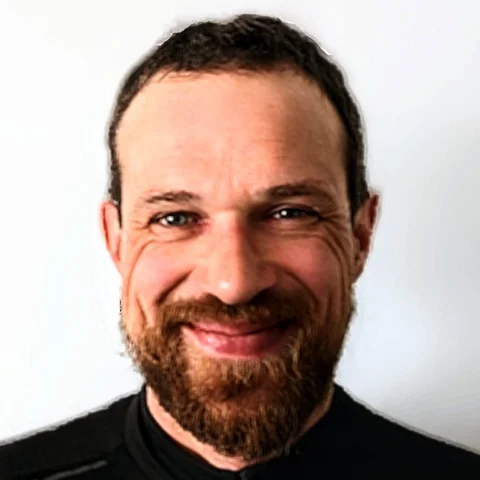
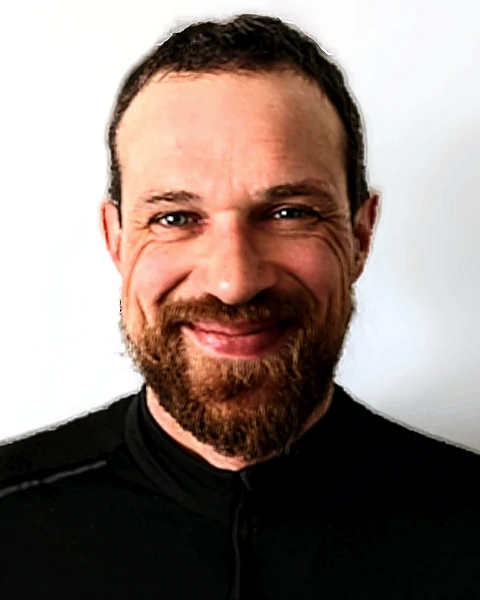
Portrait: smaller, sharper re-export from original (4:5)

diff --git a/index_v5.html b/index_v5.html
@@ -1,0 +1,216 @@
+<!doctype html>
+<html lang="nb">
+<head>
+<meta charset="utf-8">
+<meta name="viewport" content="width=device-width, initial-scale=1">
+<title>Mantas Pagalys · Hage, småbygg og båt · Oslo, Sandvika, Bærum</title>
+<meta name="robots" content="noindex">
+<link rel="preconnect" href="https://fonts.googleapis.com"><link rel="preconnect" href="https://fonts.gstatic.com" crossorigin>
+<link href="https://fonts.googleapis.com/css2?family=Cormorant+Garamond:ital,wght@0,300;0,400;1,300;1,400&family=Jost:wght@300;400;500&display=swap" rel="stylesheet">
+<link rel="icon" href="/assets/favicon-32.png">
+<style>
+:root{--bg:#fbfaf8;--ink:#141414;--muted:#6b6862;--hair:#dcd8d1;--red:#b0322a;--max:1120px}
+*{box-sizing:border-box}html{scroll-behavior:smooth}
+body{margin:0;background:var(--bg);color:var(--ink);font:300 17px/1.7 Jost,"Futura","Century Gothic",system-ui,sans-serif;-webkit-font-smoothing:antialiased}
+a{color:var(--ink)}
+.wrap{max-width:var(--max);margin:0 auto;padding:0 16px}
+h1,h2,h3{font-weight:300;letter-spacing:-0.01em;line-height:1.08;margin:0}
+nav{position:sticky;top:0;z-index:10;background:color-mix(in srgb,var(--bg) 94%,transparent);backdrop-filter:blur(8px);border-bottom:1px solid var(--hair)}
+nav .wrap{display:flex;align-items:center;justify-content:space-between;height:58px}
+.brand{font-weight:400;letter-spacing:.32em;text-transform:uppercase;font-size:.82rem;text-decoration:none;color:var(--ink)}
+.brand i{font-style:normal;color:var(--red)}
+.links{display:flex;gap:22px;align-items:center}
+.links a{text-decoration:none;font-size:.78rem;letter-spacing:.18em;text-transform:uppercase;font-weight:400}
+.links a:hover{color:var(--red)}
+.lang{display:flex;gap:0;border:1px solid var(--hair)}
+.lang button{border:0;background:transparent;color:var(--muted);padding:4px 9px;font:400 .7rem Jost,sans-serif;letter-spacing:.12em;cursor:pointer}
+.lang button.active{background:var(--ink);color:#fff}
+.hero{position:relative;padding:96px 0 80px;display:grid;grid-template-columns:1.5fr .7fr;gap:56px;align-items:end;overflow:hidden}
+.roof{position:absolute;inset:0;width:100%;height:100%;z-index:-1;pointer-events:none}
+.eyebrow{font-size:.72rem;letter-spacing:.3em;text-transform:uppercase;color:var(--muted);margin:0 0 26px}
+.eyebrow::before{content:"";display:inline-block;width:38px;height:1px;background:var(--red);vertical-align:middle;margin-right:14px}
+.hero h1{font-size:clamp(2.3rem,5.4vw,4.2rem);font-weight:300}
+.stance{margin:34px 0 0;font-size:1.05rem;font-weight:400;letter-spacing:.01em;padding-left:18px;border-left:1px solid var(--red)}
+.lede{color:var(--muted);margin:22px 0 0;max-width:58ch;font-size:.98rem}
+.btns{display:flex;gap:14px;margin-top:36px;flex-wrap:wrap}
+.btn{display:inline-block;padding:13px 26px;text-decoration:none;font-size:.74rem;letter-spacing:.22em;text-transform:uppercase;font-weight:400;border:1px solid var(--ink)}
+.btn.primary{background:var(--ink);color:#fff;border-color:var(--ink)}
+.btn.primary:hover{background:var(--red);border-color:var(--red)}
+.btn.ghost{color:var(--ink)}.btn.ghost:hover{border-color:var(--red);color:var(--red)}
+.portrait{text-align:left}
+.portrait img{width:100%;max-width:190px;aspect-ratio:4/5;object-fit:cover;object-position:50% 30%;clip-path:polygon(0 0,100% 12%,100% 100%,0 100%);filter:grayscale(.15)}
+.portrait .name{font-weight:400;margin-top:14px;letter-spacing:.06em}
+.portrait .role{color:var(--muted);font-size:.85rem}
+section{padding:72px 0;border-top:1px solid var(--hair)}
+.sec-h{display:flex;align-items:baseline;gap:18px;margin-bottom:40px}
+.sec-h .n{color:var(--red);font-size:.75rem;letter-spacing:.25em}
+.sec-h h2{font-size:clamp(1.7rem,3.2vw,2.5rem)}
+.cards{display:grid;grid-template-columns:repeat(3,1fr)}
+.card{padding:0 28px;border-left:1px solid var(--hair)}
+.card:first-child{padding-left:0;border-left:0}
+.card h3{font-size:1.25rem;font-weight:400;margin-bottom:18px;padding-bottom:12px;border-bottom:1px solid var(--ink)}
+.card ul{list-style:none;margin:0;padding:0}
+.card li{padding:11px 0}
+.card li b{display:block;font-weight:500;font-size:.95rem}
+.card li span{color:var(--muted);font-size:.88rem}
+.facts{display:grid;grid-template-columns:repeat(4,1fr);margin-top:56px;border-top:1px solid var(--hair)}
+.facts div{padding:18px 18px 0 0;font-size:.88rem;color:var(--muted)}
+.facts strong{display:block;color:var(--ink);font-weight:400;font-size:.68rem;text-transform:uppercase;letter-spacing:.22em;margin-bottom:4px}
+.arka{background:var(--ink);color:#ece8e1;padding:52px 48px;display:grid;grid-template-columns:1.3fr 1fr;gap:44px;align-items:center;clip-path:polygon(0 0,100% 0,100% 82%,88% 100%,0 100%)}
+#arka{border-top:0;padding-top:24px}
+.arka .tag{color:#e09a92;font-size:.7rem;letter-spacing:.28em;text-transform:uppercase}
+.arka h2{font-size:clamp(1.5rem,2.8vw,2.2rem);margin:14px 0 16px;color:#fff}
+.arka p{color:#bdb7ad;margin:0;font-size:.95rem}
+.arka a{color:#fff;display:inline-block;margin-top:22px;font-size:.74rem;letter-spacing:.2em;text-transform:uppercase;text-decoration:none;border-bottom:1px solid #e09a92;padding-bottom:3px}
+.nums div{display:flex;justify-content:space-between;align-items:baseline;gap:14px;padding:16px 0;border-bottom:1px solid #3d3a36}
+.nums b{font-size:2.1rem;font-weight:300;color:#fff;white-space:nowrap}
+.nums div:last-child b{color:#ff8f84}
+.nums span{color:#bdb7ad;font-size:.85rem}
+.fjell p{max-width:62ch;color:var(--muted)}
+.fjell a{font-size:.74rem;letter-spacing:.2em;text-transform:uppercase;text-decoration:none;border-bottom:1px solid var(--red);padding-bottom:3px}
+.note{font-style:normal;color:var(--ink);margin-top:22px;font-size:1.05rem}
+.contact{display:grid;grid-template-columns:1fr 1.1fr;gap:56px}
+.away{padding:0 0 0 16px;border-left:1px solid var(--red);font-size:.92rem;margin:0 0 26px;color:var(--ink)}
+.rule{font-weight:300;font-size:1.45rem;line-height:1.35;margin:0 0 16px}
+.cta{color:var(--muted);margin:0;font-size:.95rem}
+form{display:grid;gap:18px}
+label{display:grid;gap:6px;font-size:.68rem;letter-spacing:.22em;text-transform:uppercase;color:var(--muted)}
+input,select,textarea{font:300 1rem Jost,sans-serif;padding:10px 0;border:0;border-bottom:1px solid var(--ink);background:transparent;color:var(--ink);border-radius:0}
+input:focus,select:focus,textarea:focus{outline:0;border-bottom:2px solid var(--red)}
+form button{justify-self:start;background:var(--ink);color:#fff;border:0;padding:14px 34px;font:400 .74rem Jost,sans-serif;letter-spacing:.24em;text-transform:uppercase;cursor:pointer}
+form button:hover{background:var(--red)}
+footer{padding:30px 0 44px;color:var(--muted);font-size:.8rem;letter-spacing:.06em;border-top:1px solid var(--hair)}
+@media (max-width:860px){.hero,.arka,.contact{grid-template-columns:1fr}.hero{padding-top:48px;gap:32px}.portrait{order:-1}.portrait img{max-width:140px}.cards{grid-template-columns:1fr}.card{padding:0;border-left:0;margin-bottom:28px}.facts{grid-template-columns:1fr 1fr}.links a.hide-sm{display:none}.arka{padding:32px 24px;clip-path:polygon(0 0,100% 0,100% 92%,80% 100%,0 100%)}}
+
+.hero{padding:140px 0 120px}
+section{padding:110px 0}
+.sec-h{margin-bottom:56px}
+.card li{padding:9px 0}
+.card li b{font-weight:300;font-size:1.02rem}
+.facts{grid-template-columns:repeat(2,1fr);max-width:640px;margin-top:80px}
+.stance{margin-top:44px}
+.btns{margin-top:52px}
+.arka{padding:64px 56px}
+.arka h2{margin-bottom:0}
+.contact{gap:80px}
+@media (max-width:860px){.hero{padding:56px 0 72px}section{padding:72px 0}.facts{grid-template-columns:1fr}}
+
+:root{--serif:"Cormorant Garamond",Georgia,serif}
+h1,h2,h3,.nums b,.card li b{font-family:var(--serif);font-weight:300}
+.hero h1{font-size:clamp(2.6rem,6.2vw,5.2rem);line-height:1.02;letter-spacing:-0.015em}
+.hero h1 em{font-style:italic;color:var(--red)}
+.stance{border:0;padding:0;margin-top:48px;font:400 .78rem/2 Jost,sans-serif;letter-spacing:.28em;text-transform:uppercase;color:var(--muted)}
+.stance b{font-weight:500;color:var(--ink)}
+.hero{background-image:repeating-linear-gradient(90deg,transparent 0 calc(100%/12 - 1px),rgba(20,20,20,.035) calc(100%/12 - 1px) calc(100%/12))}
+section{display:grid;grid-template-columns:64px 1fr;column-gap:24px}
+section>*{grid-column:2}
+.sec-h{grid-column:1;grid-row:1 / span 4;display:block;margin:0}
+.sec-h .n{display:block;writing-mode:vertical-rl;font-size:.7rem;letter-spacing:.35em;margin-bottom:18px}
+.sec-h h2{writing-mode:vertical-rl;transform:rotate(180deg);font-size:1.6rem;letter-spacing:.04em;white-space:nowrap}
+#arka{display:block}#arka>*{grid-column:auto}
+.sec-h .n,.sec-h h2{font-weight:300}
+.card h3{font-size:1.7rem;border-bottom:1px solid var(--hair);padding-bottom:14px}
+.card li b{font-size:1.18rem;font-weight:300}
+.card li{padding:7px 0}
+.nums b{font-size:2.8rem}
+.arka h2{font-size:clamp(1.8rem,3.2vw,2.6rem)}
+.rule{font-family:var(--serif);font-size:2rem;line-height:1.25}
+.fjell p{font-size:1.05rem}
+.reveal{opacity:0;transform:translateY(14px);transition:opacity .9s ease,transform .9s ease}
+.reveal.on{opacity:1;transform:none}
+@media (prefers-reduced-motion:reduce){.reveal{opacity:1;transform:none;transition:none}}
+@media (max-width:860px){section{grid-template-columns:1fr}.sec-h{grid-row:auto;display:flex;align-items:baseline;gap:14px;margin-bottom:32px}.sec-h .n,.sec-h h2{writing-mode:horizontal-tb;transform:none}.sec-h h2{font-size:2rem}.hero{background-image:none}}
+
+.sec-h{display:flex;flex-direction:column-reverse;align-items:center;justify-content:flex-end;gap:16px}
+.sec-h .n{writing-mode:vertical-rl;transform:rotate(180deg);margin:0}
+h1,h2,h3,.nums b,.card li b,.rule{font-variant-numeric:lining-nums}
+@media (max-width:860px){.sec-h{flex-direction:row;align-items:baseline;justify-content:flex-start}.sec-h .n{transform:none}}
+
+.arka-line{display:block;border-top:1px solid var(--hair);padding:40px 0}
+.arka-line p{margin:0}
+.arka-line a{font-size:.74rem;letter-spacing:.22em;text-transform:uppercase;text-decoration:none;color:var(--muted);border-bottom:1px solid var(--hair);padding-bottom:3px}
+.arka-line a:hover{color:var(--red);border-color:var(--red)}
+@media (max-width:860px){section>*{grid-column:1}.brand{letter-spacing:.16em;font-size:.72rem}.links{gap:12px}.links a{font-size:.7rem;letter-spacing:.12em}nav .wrap{gap:16px}.sec-h h2{font-size:1.9rem}}
+
+.qas{display:grid;grid-template-columns:1fr 1fr;column-gap:56px}
+.qa{padding:22px 0;border-top:1px solid var(--hair)}
+.qa h3{font-size:1.35rem;margin-bottom:8px}
+.qa p{margin:0;color:var(--muted);font-size:.95rem;max-width:46ch}
+@media (max-width:860px){.qas{grid-template-columns:1fr}}
+</style>
+</head>
+<body>
+<nav><div class="wrap">
+  <a class="brand" href="#top">Mantas<i>·</i>Pagalys</a>
+  <div class="links">
+    <a class="hide-sm" href="#tjenester" data-i18n="nav_services">Tjenester</a>
+    <a href="#kontakt" data-i18n="nav_contact">Kontakt</a>
+    <div class="lang"><button data-lang="no" class="active">NO</button><button data-lang="en">EN</button><button data-lang="lt">LT</button></div>
+  </div>
+</div></nav>
+<main id="top" class="wrap">
+  <div class="hero"><svg class="roof" viewBox="0 0 1120 520" preserveAspectRatio="none" aria-hidden="true"><g fill="none" stroke="#141414" stroke-width="1" opacity=".08"><path d="M0 500 L1120 300"/><path d="M420 520 L1120 170"/></g><path d="M930 520 L1120 395" stroke="#b0322a" stroke-width="1" fill="none" opacity=".6"/></svg>
+    <div>
+      <p class="eyebrow">Oslo · Sandvika · Bærum</p>
+      <h1 data-i18n="hero_h1">Hage, småbygg og båt. <em>Gjort skikkelig,</em> i riktig sesong.</h1>
+      <p class="stance" data-i18n="stance">Ingen varebil.<br>Ingen garasje.<br>Ingen flåte.<br><b>Bare arbeidet.</b></p>
+      
+      <div class="btns"><a class="btn primary" href="#kontakt" data-i18n="h_contact">Ta kontakt</a><a class="btn ghost" href="#tjenester" data-i18n="btn_services">Se tjenester</a></div>
+    </div>
+    <div class="portrait"><img src="assets/profile-photo.webp" alt="Mantas Pagalys"><div class="name">Mantas Pagalys</div></div>
+  </div>
+
+  <section id="tjenester">
+    <div class="sec-h"><span class="n">01</span><h2 data-i18n="nav_services">Tjenester</h2></div>
+    <div class="cards reveal">
+      <div class="card"><h3 data-i18n="h_garden">Hage &amp; uterom</h3><ul><li><b data-i18n="sv1_t">Beskjæring</b></li><li><b data-i18n="sv2_t">Gressklipping, resåing og luking</b></li><li><b data-i18n="sv3_t">Planting og sesongrydding</b></li><li><b data-i18n="sv4_t">Gjerder og terrasser</b></li></ul></div>
+      <div class="card"><h3 data-i18n="h_buildmaint">Bygg &amp; vedlikehold</h3><ul><li><b data-i18n="sv5_t">Dør og vindu</b></li><li><b data-i18n="sv6_t">Fasade og betongarbeid</b></li><li><b data-i18n="sv7_t">Parkett, listverk og gips</b></li><li><b data-i18n="sv8_t">Høytrykksspyling</b></li><li><b data-i18n="sv9_t">Rensing av takrenner</b></li></ul></div>
+      <div class="card"><h3 data-i18n="h_boat">Båt</h3><ul><li><b data-i18n="sv10_t">Reparasjon</b></li><li><b data-i18n="sv11_t">Rengjøring, forbehandling og maling</b></li></ul></div>
+    </div>
+    <div class="facts"><div data-i18n="fact1"><strong>Område:</strong> Oslo, Sandvika og Bærum, på sykkel</div><div data-i18n="fact4"><strong>Transport:</strong> sykkel. Stille, presis, trenger ingen parkering.</div></div>
+  </section>
+  <section id="sporsmal">
+    <div class="sec-h"><span class="n">02</span><h2 data-i18n="h_faq">Spørsmål</h2></div>
+    <div class="qas reveal"><div class="qa"><h3 data-i18n="q_how">Hvordan kommer du deg dit med verktøy?</h3><p data-i18n="q_how_a">Du beskriver jobben. Materialene leveres hjem til deg. Jeg kommer på sykkel med verktøyet som trengs.</p></div><div class="qa"><h3 data-i18n="q_cost">Hva koster det?</h3><p data-i18n="q_cost_a">Prisen avtales før arbeidet starter. Ingen bil- eller verkstedkostnader i prisen.</p></div><div class="qa"><h3 data-i18n="q_exp">Hvilken erfaring har du?</h3><p data-i18n="q_exp_a">Eiendommer i Hampstead Heath, golfbanene i St Andrews, og oppdrag gjennom større anleggsgartnerfirmaer.</p></div><div class="qa"><h3 data-i18n="q_big">Tar du store jobber?</h3><p data-i18n="q_big_a">Jobber som krever varebil, tar jeg ikke. Det er en del av modellen.</p></div><div class="qa"><h3 data-i18n="q_lang">Hvilke språk?</h3><p data-i18n="q_lang_a">Norsk, engelsk og litauisk.</p></div></div>
+  </section>
+  <section id="arka" class="arka-line"><p><a href="arka_no.html" data-href-no="arka_no.html" data-href-en="arka.html" data-href-lt="arka.html" data-i18n="arka_line">ARKA — et forslag til faste småboliger for kommuner →</a></p></section>
+
+  <section id="kontakt">
+    <div class="sec-h"><span class="n">03</span><h2 data-i18n="h_contact">Ta kontakt</h2></div>
+    <div class="contact reveal">
+      <div>
+        <p class="away" id="awayNote" data-i18n="away_note">Borte 22. oktober – 6. november. Svar fra 9. november.</p>
+        <p class="rule" data-i18n="rule_line">Arbeid og prosjekter: svar garantert. Penger, kontakter og «bare en liten tjeneste»: svar ikke inkludert.</p>
+        
+      </div>
+      <form action="https://formspree.io/f/mykqqzjg" method="POST">
+        <label><span data-i18n="form_topic">Henvendelsen gjelder</span><select name="topic"><option value="tjenester" data-i18n="opt_services">Tjenester</option><option value="ARKA" data-i18n="opt_arka">ARKA (kommune, finansiering, samarbeid)</option><option value="annet" data-i18n="opt_other">Annet</option></select></label>
+        <label><span data-i18n="f_name">Navn</span><input type="text" name="name" required></label>
+        <label><span data-i18n="f_email">E-post</span><input type="email" name="email" required></label>
+        <label><span data-i18n="f_msg">Melding</span><textarea name="message" rows="4" required></textarea></label>
+        <button type="submit" data-i18n="f_send">Send</button>
+      </form>
+    </div>
+  </section>
+</main>
+<footer><div class="wrap"><span data-i18n="footer_line">Pris avtales før arbeidet starter. Ingen overraskelser etterpå.</span> · greifiks.org</div></footer>
+<script>
+(function(){
+  var T={"en": {"hero_role": "Garden, outdoor space and small-scale craftsmanship", "hero_h1": "Gardens, small builds and boats. <em>Done properly,</em> in the right season.", "hero_lede": "A garden has its own order — what has to grow before it can be pruned, what a greenhouse needs before the seedlings meet the outside world, which season a hedge can actually take being touched in. Years spent inside that order: properties on Hampstead Heath, some centuries old, rooftop gardens over the city, the golf courses at St Andrews. Own jobs, and work through larger landscaping firms — always the same respect for what's actually alive, not just what looks finished. That same respect comes to your garden.", "h_garden": "Garden &amp; outdoor space", "h_boat": "Boat", "h_practical": "Practical", "h_contact": "Get in touch", "h_fjell": "FJELL · 12 m²", "fjell_p": "The drawings are done. The cabin isn't built yet. That's the next step, not a secret.", "fjell_link": "See status and plans →", "fjell_note": "Same hands: your garden, a cabin, a boat bound for an ocean.", "sv1_t": "Pruning", "sv1_p": "Shrubs and hedges, the right time for the species — the wrong season can harm the plant more than it helps.", "sv2_t": "Mowing, lawn repair and weeding", "sv2_p": "Cutting, re-establishing worn/thin lawns, weeding — the right seed mix and timing for Norwegian climate.", "sv3_t": "Planting and seasonal clearing", "sv3_p": "Spring and autumn clearing, planting, general garden advice.", "sv4_t": "Fences and decking", "sv4_p": "Repair and maintenance of fences and deck boards.", "sv5_t": "Doors and windows", "sv5_p": "Installation and repair.", "sv6_t": "Facade and concrete work", "sv6_p": "Smaller facade work and concrete jobs.", "sv7_t": "Flooring, trim and drywall", "sv7_p": "Laying/repairing flooring, trim, drywall panels and light partition walls.", "sv8_t": "Pressure washing", "sv8_p": "Facade, terrace, driveway.", "sv9_t": "Gutter cleaning", "sv9_p": "Your ladder, my work.", "sv10_t": "Repair", "sv10_p": "Deck, teak woodwork, minor structural and epoxy work.", "sv11_t": "Cleaning, prep and painting", "sv11_p": "Proper preparation before painting — this is often what decides whether the job actually holds.", "fact1": "<strong>Area:</strong> Oslo, Sandvika and Bærum, by bike", "fact2": "<strong>Tools:</strong> own hand tools for most jobs", "fact3": "<strong>Mowing:</strong> your machine, my hands", "fact4": "<strong>Transport:</strong> bicycle. Quiet, on time, no parking needed.", "arka_tag": "ARKA · from temporary to permanent", "arka_h": "A permanent home costs a municipality less per month than one night in a hotel", "arka_lede": "Municipalities pay hotel and guesthouse rates to house people they are obliged to help. ARKA is a small, permanent, factory-built home that makes a proper home the cheaper option.", "arka_r1": "Temporary accommodation", "arka_r2": "ARKA home, net after rent", "arka_r2s": "worst case", "cta_line": "Price depends on the job. Describe it, and you get a number.", "away_note": "Away 22 October – 6 November. Replies from 9 November.", "rule_line": "Work and projects: reply guaranteed. Money, contacts and “just a small favour”: reply not included.", "form_topic": "This concerns", "opt_services": "Services", "opt_arka": "ARKA (municipality, financing, partnership)", "opt_other": "Other", "footer_line": "Price agreed before work starts. No surprises after.", "nav_services": "Services", "nav_contact": "Contact", "h_buildmaint": "Building &amp; maintenance", "stance": "No van.<br>No garage.<br>No fleet.<br><b>Just the work.</b>", "btn_services": "See services", "arka_more": "Read the full ARKA proposal →", "f_name": "Name", "f_email": "Email", "f_msg": "Message", "f_send": "Send", "nav_arka": "ARKA", "arka_line": "ARKA — a proposal for permanent small homes for municipalities →", "h_faq": "Questions", "q_how": "How do you get there with tools?", "q_how_a": "You describe the job. Materials are delivered to your door. I arrive by bike with the tools it takes.", "q_cost": "What does it cost?", "q_cost_a": "Price agreed before work starts. No van or workshop costs in the price.", "q_exp": "What experience do you have?", "q_exp_a": "Estates in Hampstead Heath, the golf courses of St Andrews, and work through larger landscaping firms.", "q_big": "Do you take big jobs?", "q_big_a": "Jobs that need a van, I don’t take. That’s part of the model.", "q_lang": "Which languages?", "q_lang_a": "Norwegian, English and Lithuanian."}, "lt": {"hero_role": "Sodas, lauko erdvė ir smulkūs statybos darbai", "hero_h1": "Sodai, nedideli statiniai ir laivai. <em>Padaryta kaip reikia,</em> tinkamu metu.", "hero_lede": "Sodas turi savo tvarką — kas turi užaugti, kol galima genėti, ko reikia šiltnamiui, kol daigai sutinka išorinį pasaulį, kokiu metų laiku gyvatvorę iš tikrųjų galima liesti. Metai, praleisti tos tvarkos viduje: Hampstead Heath dvarai, kai kurie kelių šimtmečių senumo, sodai ant miesto stogų, golfo aikštynai St Andrews. Savi užsakymai ir darbas per didesnes kraštovaizdžio įmones — visada ta pati pagarba tam, kas iš tikrųjų gyva, o ne tik tam, kas atrodo baigta. Ta pati pagarba ateis ir į jūsų sodą.", "h_garden": "Sodas ir lauko erdvė", "h_boat": "Laivas", "h_practical": "Praktinė informacija", "h_contact": "Susisiekite", "h_fjell": "FJELL · 12 m²", "fjell_p": "Brėžiniai paruošti. Trobelė dar nepastatyta. Tai kitas žingsnis, ne paslaptis.", "fjell_link": "Žiūrėti būklę ir planus →", "fjell_note": "Tos pačios rankos: jūsų sodas, trobelė, laivas, kuris plauks per vandenyną.", "sv1_t": "Genėjimas", "sv1_p": "Krūmai ir gyvatvorės, tinkamas laikas pagal rūšį — netinkamas sezonas gali pakenkti augalui labiau, nei padėti.", "sv2_t": "Vejos pjovimas, atkūrimas ir ravėjimas", "sv2_p": "Pjovimas, nusidėvėjusių/plikų vejų atkūrimas, ravėjimas — tinkamas sėklų mišinys ir laikas Norvegijos klimatui.", "sv3_t": "Sodinimas ir sezoninis tvarkymas", "sv3_p": "Pavasario ir rudens tvarkymas, sodinimas, bendri patarimai apie sodą.", "sv4_t": "Tvoros ir terasos", "sv4_p": "Tvorų ir terasos lentų remontas bei priežiūra.", "sv5_t": "Durys ir langai", "sv5_p": "Montavimas ir remontas.", "sv6_t": "Fasado ir betono darbai", "sv6_p": "Smulkesni fasado ir betono darbai.", "sv7_t": "Grindys, apvadai ir gipskartonis", "sv7_p": "Grindų klojimas/remontas, apvadai, gipskartonio plokštės ir lengvos pertvaros.", "sv8_t": "Plovimas aukšto slėgio įranga", "sv8_p": "Fasadas, terasa, kiemas.", "sv9_t": "Latakų valymas", "sv9_p": "Jūsų kopėčios, mano darbas.", "sv10_t": "Remontas", "sv10_p": "Denis, tikmedžio medienos darbai, smulkūs konstrukciniai ir epoksidiniai darbai.", "sv11_t": "Valymas, paruošimas ir dažymas", "sv11_p": "Tinkamas paruošimas prieš dažant — dažnai būtent tai nulemia, ar darbas iš tikrųjų išsilaikys.", "fact1": "<strong>Vietovė:</strong> Oslas, Sandvika ir Bærumas, dviračiu", "fact2": "<strong>Įrankiai:</strong> nuosavi rankiniai įrankiai daugumai darbų", "fact3": "<strong>Vejos pjovimas:</strong> jūsų technika, mano rankos", "fact4": "<strong>Transportas:</strong> dviratis. Tylu, laiku, nereikia parkavimo vietos.", "arka_tag": "ARKA · iš laikino būsto į nuolatinį", "arka_h": "Nuolatinis būstas savivaldybei per mėnesį kainuoja mažiau nei viena naktis viešbutyje", "arka_lede": "Savivaldybės moka už viešbučius ir svečių namus, kad apgyvendintų žmones, kuriems privalo padėti. ARKA yra mažas nuolatinis gamykloje pastatytas namas, su kuriuo tikri namai tampa pigesniu sprendimu.", "arka_r1": "Laikinas apgyvendinimas", "arka_r2": "ARKA būstas, atskaičius nuomą", "arka_r2s": "blogiausiu atveju", "cta_line": "Kaina priklauso nuo darbo. Aprašykite jį, ir gausite skaičių.", "away_note": "Manęs nebus spalio 22 – lapkričio 6 d. Atsakysiu nuo lapkričio 9 d.", "rule_line": "Darbas ir projektai: atsakymas garantuotas. Pinigai, kontaktai ir „tik maža paslauga“: atsakymas neįskaičiuotas.", "form_topic": "Tema", "opt_services": "Paslaugos", "opt_arka": "ARKA (savivaldybėms, finansavimas, bendradarbiavimas)", "opt_other": "Kita", "footer_line": "Kaina sutariama prieš pradedant darbą. Jokių staigmenų po to.", "nav_services": "Paslaugos", "nav_contact": "Kontaktai", "h_buildmaint": "Statyba ir priežiūra", "stance": "Jokio furgono.<br>Jokio garažo.<br>Jokio parko.<br><b>Tik darbas.</b>", "btn_services": "Paslaugos", "arka_more": "Visas ARKA pasiūlymas →", "f_name": "Vardas", "f_email": "El. paštas", "f_msg": "Žinutė", "f_send": "Siųsti", "nav_arka": "ARKA", "arka_line": "ARKA — pasiūlymas savivaldybėms dėl nuolatinių mažų būstų →", "h_faq": "Klausimai", "q_how": "Kaip atvykstate su įrankiais?", "q_how_a": "Jūs aprašote darbą. Medžiagos pristatomos į namus. Atvykstu dviračiu su reikalingais įrankiais.", "q_cost": "Kiek kainuoja?", "q_cost_a": "Kaina sutariama prieš pradedant darbą. Kainoje nėra automobilio ar dirbtuvių išlaidų.", "q_exp": "Kokia jūsų patirtis?", "q_exp_a": "Valdos Hampstead Heath, golfo aikštynai St Andrews ir darbai per didesnes kraštovaizdžio įmones.", "q_big": "Ar imatės didelių darbų?", "q_big_a": "Darbų, kuriems reikia furgono, nesiimu. Tai modelio dalis.", "q_lang": "Kokiomis kalbomis?", "q_lang_a": "Norvegų, anglų ir lietuvių."}};
+  var els=[].slice.call(document.querySelectorAll('[data-i18n]')),orig={};
+  els.forEach(function(e){orig[e.getAttribute('data-i18n')]=e.innerHTML});
+  var btns=[].slice.call(document.querySelectorAll('.lang button'));
+  function set(l){
+    els.forEach(function(e){var k=e.getAttribute('data-i18n');e.innerHTML=(T[l]&&T[l][k])||orig[k]});
+    btns.forEach(function(b){b.classList.toggle('active',b.getAttribute('data-lang')===l)});
+    document.documentElement.lang=l==='no'?'nb':l;
+    document.querySelectorAll('[data-href-'+l+']').forEach(function(a){a.href=a.getAttribute('data-href-'+l)});
+    try{localStorage.setItem('site-lang',l)}catch(e){}
+  }
+  btns.forEach(function(b){b.onclick=function(){set(b.getAttribute('data-lang'))}});
+  var s;try{s=localStorage.getItem('site-lang')}catch(e){}if(s&&s!=='no')set(s);
+  var io='IntersectionObserver' in window?new IntersectionObserver(function(es){es.forEach(function(e){if(e.isIntersecting){e.target.classList.add('on');io.unobserve(e.target)}})},{threshold:.12}):null;document.querySelectorAll('.reveal').forEach(function(el){io?io.observe(el):el.classList.add('on')});
+  var a=document.getElementById('awayNote');if(a&&new Date()>=new Date('2026-11-09T00:00:00+01:00'))a.style.display='none';
+})();
+</script>
+</body></html>

diff --git a/index.html b/index.html
@@ -70,7 +70,7 @@ nav .wrap{display:flex;align-items:center;justify-content:space-between;height:5
 .btn.primary:hover{background:var(--red);border-color:var(--red)}
 .btn.ghost{color:var(--ink)}.btn.ghost:hover{border-color:var(--red);color:var(--red)}
 .portrait{text-align:left}
-.portrait img{width:100%;max-width:260px;aspect-ratio:4/5;object-fit:cover;object-position:50% 30%;clip-path:polygon(0 0,100% 12%,100% 100%,0 100%);filter:grayscale(.15)}
+.portrait img{width:100%;max-width:190px;aspect-ratio:4/5;object-fit:cover;object-position:50% 30%;clip-path:polygon(0 0,100% 12%,100% 100%,0 100%);filter:grayscale(.15)}
 .portrait .name{font-weight:400;margin-top:14px;letter-spacing:.06em}
 .portrait .role{color:var(--muted);font-size:.85rem}
 section{padding:72px 0;border-top:1px solid var(--hair)}
@@ -112,7 +112,7 @@ input:focus,select:focus,textarea:focus{outline:0;border-bottom:2px solid var(--
 form button{justify-self:start;background:var(--ink);color:#fff;border:0;padding:14px 34px;font:400 .74rem Jost,sans-serif;letter-spacing:.24em;text-transform:uppercase;cursor:pointer}
 form button:hover{background:var(--red)}
 footer{padding:30px 0 44px;color:var(--muted);font-size:.8rem;letter-spacing:.06em;border-top:1px solid var(--hair)}
-@media (max-width:860px){.hero,.arka,.contact{grid-template-columns:1fr}.hero{padding-top:48px;gap:32px}.portrait{order:-1}.portrait img{max-width:180px}.cards{grid-template-columns:1fr}.card{padding:0;border-left:0;margin-bottom:28px}.facts{grid-template-columns:1fr 1fr}.links a.hide-sm{display:none}.arka{padding:32px 24px;clip-path:polygon(0 0,100% 0,100% 92%,80% 100%,0 100%)}}
+@media (max-width:860px){.hero,.arka,.contact{grid-template-columns:1fr}.hero{padding-top:48px;gap:32px}.portrait{order:-1}.portrait img{max-width:140px}.cards{grid-template-columns:1fr}.card{padding:0;border-left:0;margin-bottom:28px}.facts{grid-template-columns:1fr 1fr}.links a.hide-sm{display:none}.arka{padding:32px 24px;clip-path:polygon(0 0,100% 0,100% 92%,80% 100%,0 100%)}}
 
 .hero{padding:140px 0 120px}
 section{padding:110px 0}
